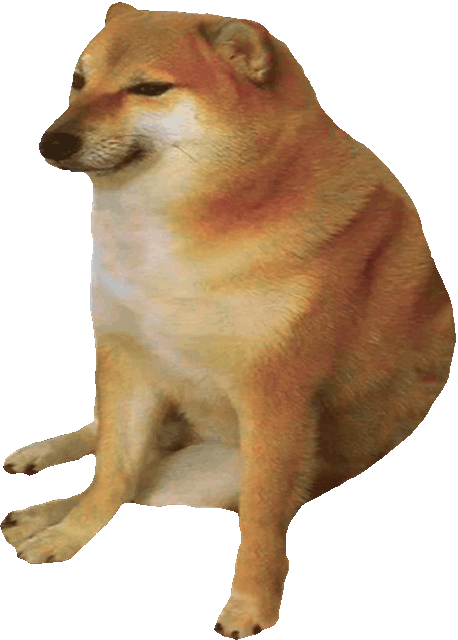
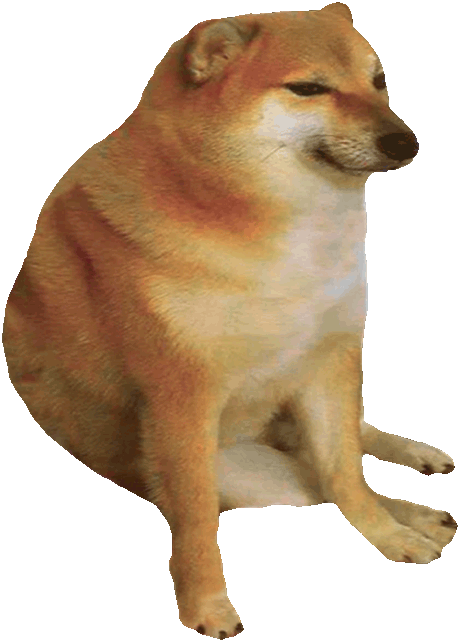
bonking animation

diff --git a/src/pages/gasless-bonk-swap/index.tsx b/src/pages/gasless-bonk-swap/index.tsx
@@ -44,7 +44,7 @@ const BonkSwap: NextPage = () => {
   const [bonkBalance, setBonkBalance] = useState<number | null>(null);
   const [baseIsSol, setBaseIsSol] = useState(true);
   const [isSwapping, setIsSwapping] = useState(false);
-  const { register, handleSubmit, setValue, watch } = useForm<FormData>({
+  const { register, handleSubmit, setValue } = useForm<FormData>({
     defaultValues: { slippage: 0.5 },
   });
   const [notifyId, setNotifyId] = useState<string>("");
@@ -52,6 +52,7 @@ const BonkSwap: NextPage = () => {
   const { data: bonkQuote } = useDataFetch<BonkQuoteData, Error>("/api/bonk/price");
   const [priceQuote, setPriceQuote] = useState<WhirlpoolQuoteData | null>(null);
   const [isFetchingQuote, setIsFetchingQuote] = useState(false);
+  const [bonkAnimate, setBonkAnimate] = useState(false);
 
   const getQuote = async (num: number) => {
     // const num = parseFloat(e.target.value);
@@ -229,14 +230,16 @@ const BonkSwap: NextPage = () => {
         <div className="mt-4 flex gap-x-8">
           {/* Image */}
           <div className="relative hidden flex-1 flex-shrink-0 px-2 sm:block">
-            <div className="overflow-hidden p-4">
+            <div className="p-8">
               <Image
+                onClick={() => setBonkAnimate(true)}
                 unoptimized={true}
-                className={`${baseIsSol ? "-scale-x-100" : ""} p-4`}
+                className={classNames(bonkAnimate && "jello-horizontal", "hover:cursor-pointer")}
+                onAnimationEnd={() => setBonkAnimate((prev) => !prev)}
                 src={"/cheems.png"}
                 alt=""
-                height={360}
-                width={360}
+                height={320}
+                width={320}
               />
             </div>
             <div className="mx-auto flex items-center justify-center gap-x-2 rounded-lg border border-amber-600 p-3">

diff --git a/src/styles/globals.css b/src/styles/globals.css
@@ -8,6 +8,34 @@
   color: white;
 } */
 
+@keyframes jello-horizontal {
+  0% {
+    transform: scale3d(1, 1, 1);
+  }
+  30% {
+    transform: scale3d(1.25, 0.75, 1);
+  }
+  40% {
+    transform: scale3d(0.75, 1.25, 1);
+  }
+  50% {
+    transform: scale3d(1.15, 0.85, 1);
+  }
+  65% {
+    transform: scale3d(0.95, 1.05, 1);
+  }
+  75% {
+    transform: scale3d(1.05, 0.95, 1);
+  }
+  100% {
+    transform: scale3d(1, 1, 1);
+  }
+}
+
+.jello-horizontal {
+  animation: jello-horizontal 0.9s both;
+}
+
 .wallet-adapter-button.wallet-adapter-button-trigger {
   height: 36px;
   line-height: 36px;

diff --git a/src/stores/useOctaneConfigStore.tsx b/src/stores/useOctaneConfigStore.tsx
@@ -18,7 +18,7 @@ const useOctaneConfigStore = create<OctaneConfigStore>((set, get) => ({
     const config = await loadOctaneConfig();
     set((s) => {
       s.config = config;
-      console.log(`loaded octane config: `, config);
+      // console.log(`loaded octane config: `, config);
     });
   },
 
